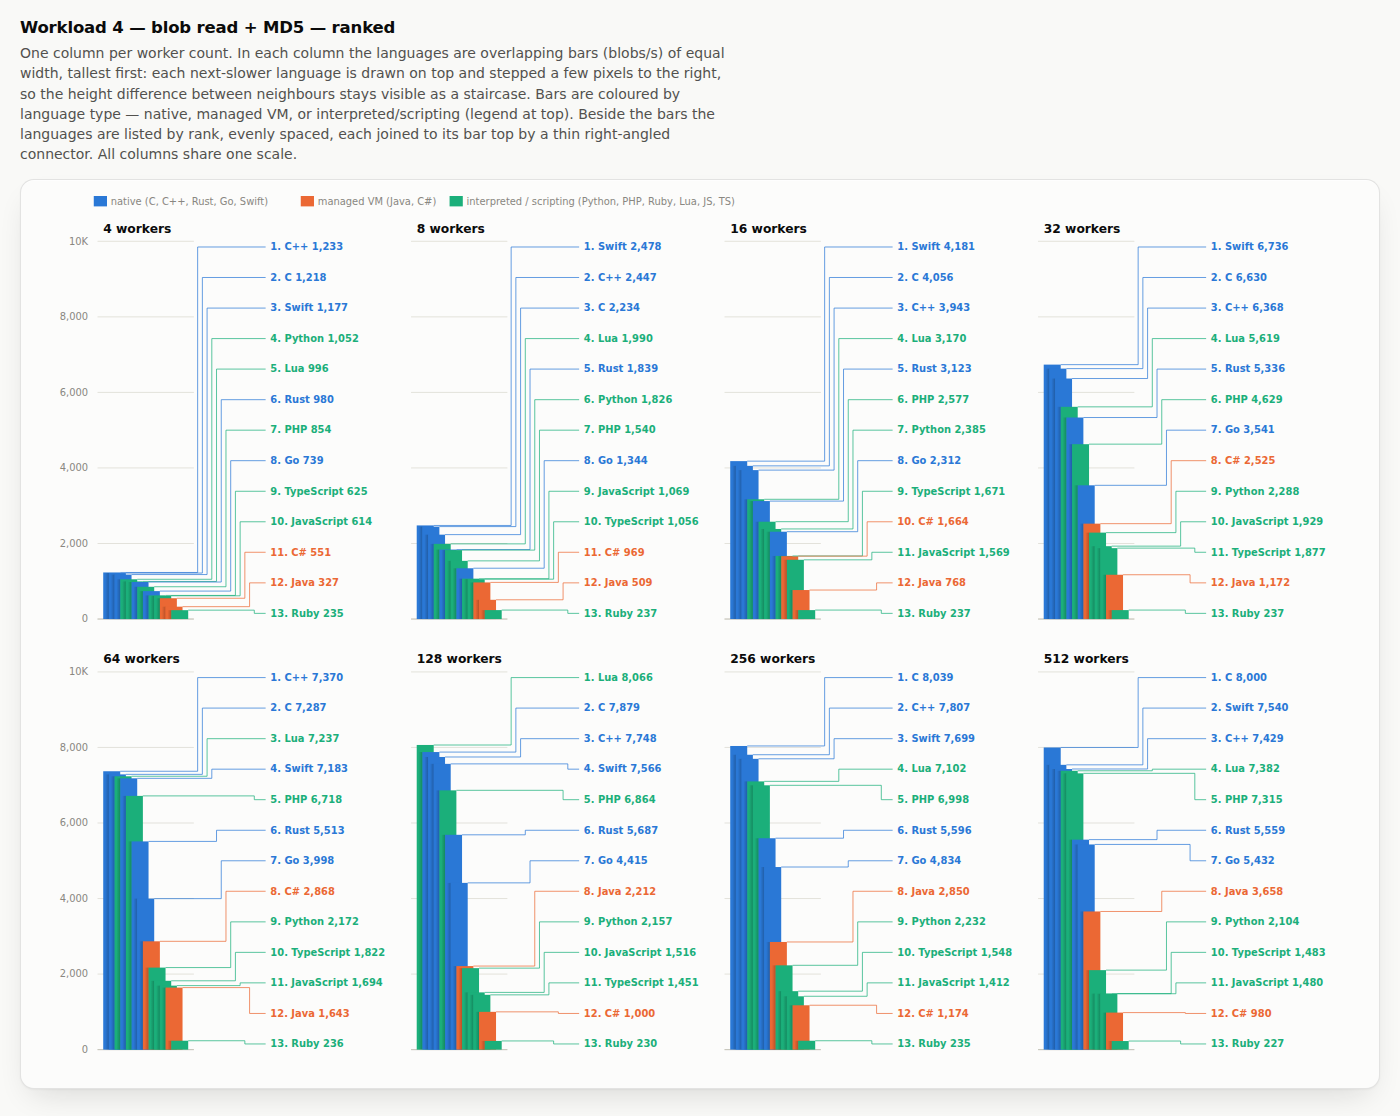
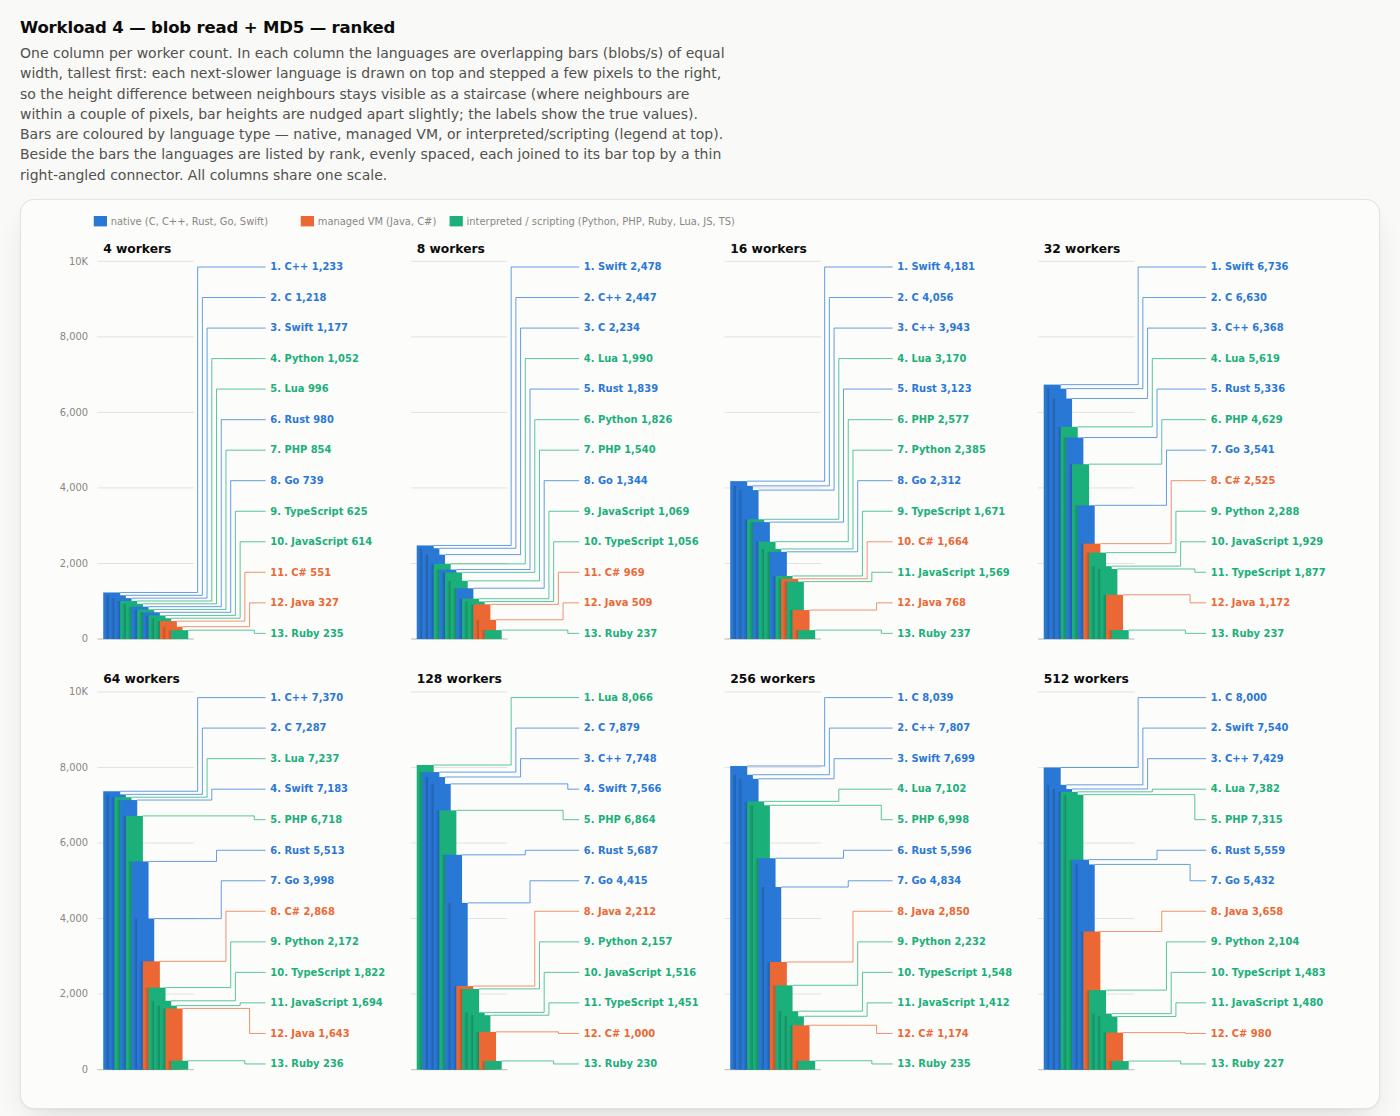
report: keep ranked-chart steps visible when neighbours are nearly equal
In each column, consecutive bar tops closer than 3px are nudged apart (the
shorter bar pushed down, cascading); if the cascade would pass the baseline the
whole stack is lifted by the overflow. Connectors follow the drawn tops; labels
and tooltips keep the true values. Subtitle notes the nudge.

diff --git a/report/ranked.html b/report/ranked.html
@@ -114,22 +114,22 @@
 
   <section id="sec-w1-rank">
     <h2>Workload 1 — integer insert — ranked</h2>
-    <p class="sub">One column per worker count. In each column the languages are overlapping bars (rows/s) of equal width, tallest first: each next-slower language is drawn on top and stepped a few pixels to the right, so the height difference between neighbours stays visible as a staircase. Bars are coloured by language type &mdash; native, managed VM, or interpreted/scripting (legend at top). Beside the bars the languages are listed by rank, evenly spaced, each joined to its bar top by a thin right-angled connector. All columns share one scale.</p>
+    <p class="sub">One column per worker count. In each column the languages are overlapping bars (rows/s) of equal width, tallest first: each next-slower language is drawn on top and stepped a few pixels to the right, so the height difference between neighbours stays visible as a staircase (where neighbours are within a couple of pixels, bar heights are nudged apart slightly; the labels show the true values). Bars are coloured by language type &mdash; native, managed VM, or interpreted/scripting (legend at top). Beside the bars the languages are listed by rank, evenly spaced, each joined to its bar top by a thin right-angled connector. All columns share one scale.</p>
     <div class="bigchart" id="chart-w1-rank"></div>
   </section>
   <section id="sec-w2-rank">
     <h2>Workload 2 — integer fetch + sum — ranked</h2>
-    <p class="sub">One column per worker count. In each column the languages are overlapping bars (rows/s) of equal width, tallest first: each next-slower language is drawn on top and stepped a few pixels to the right, so the height difference between neighbours stays visible as a staircase. Bars are coloured by language type &mdash; native, managed VM, or interpreted/scripting (legend at top). Beside the bars the languages are listed by rank, evenly spaced, each joined to its bar top by a thin right-angled connector. All columns share one scale.</p>
+    <p class="sub">One column per worker count. In each column the languages are overlapping bars (rows/s) of equal width, tallest first: each next-slower language is drawn on top and stepped a few pixels to the right, so the height difference between neighbours stays visible as a staircase (where neighbours are within a couple of pixels, bar heights are nudged apart slightly; the labels show the true values). Bars are coloured by language type &mdash; native, managed VM, or interpreted/scripting (legend at top). Beside the bars the languages are listed by rank, evenly spaced, each joined to its bar top by a thin right-angled connector. All columns share one scale.</p>
     <div class="bigchart" id="chart-w2-rank"></div>
   </section>
   <section id="sec-w3-rank">
     <h2>Workload 3 — blob insert + MD5 — ranked</h2>
-    <p class="sub">One column per worker count. In each column the languages are overlapping bars (blobs/s) of equal width, tallest first: each next-slower language is drawn on top and stepped a few pixels to the right, so the height difference between neighbours stays visible as a staircase. Bars are coloured by language type &mdash; native, managed VM, or interpreted/scripting (legend at top). Beside the bars the languages are listed by rank, evenly spaced, each joined to its bar top by a thin right-angled connector. All columns share one scale.</p>
+    <p class="sub">One column per worker count. In each column the languages are overlapping bars (blobs/s) of equal width, tallest first: each next-slower language is drawn on top and stepped a few pixels to the right, so the height difference between neighbours stays visible as a staircase (where neighbours are within a couple of pixels, bar heights are nudged apart slightly; the labels show the true values). Bars are coloured by language type &mdash; native, managed VM, or interpreted/scripting (legend at top). Beside the bars the languages are listed by rank, evenly spaced, each joined to its bar top by a thin right-angled connector. All columns share one scale.</p>
     <div class="bigchart" id="chart-w3-rank"></div>
   </section>
   <section id="sec-w4-rank">
     <h2>Workload 4 — blob read + MD5 — ranked</h2>
-    <p class="sub">One column per worker count. In each column the languages are overlapping bars (blobs/s) of equal width, tallest first: each next-slower language is drawn on top and stepped a few pixels to the right, so the height difference between neighbours stays visible as a staircase. Bars are coloured by language type &mdash; native, managed VM, or interpreted/scripting (legend at top). Beside the bars the languages are listed by rank, evenly spaced, each joined to its bar top by a thin right-angled connector. All columns share one scale.</p>
+    <p class="sub">One column per worker count. In each column the languages are overlapping bars (blobs/s) of equal width, tallest first: each next-slower language is drawn on top and stepped a few pixels to the right, so the height difference between neighbours stays visible as a staircase (where neighbours are within a couple of pixels, bar heights are nudged apart slightly; the labels show the true values). Bars are coloured by language type &mdash; native, managed VM, or interpreted/scripting (legend at top). Beside the bars the languages are listed by rank, evenly spaced, each joined to its bar top by a thin right-angled connector. All columns share one scale.</p>
     <div class="bigchart" id="chart-w4-rank"></div>
   </section>
   <footer>
@@ -466,9 +466,18 @@ const PAGE_BARS = false;
       // Flat equal-width bars, tallest first; each shorter one drawn on top,
       // shifted OFF px right, so the height differences read as a staircase.
       ranked.forEach(e => { e.col = typeCol(e.it); });
+      // Visual nudge: neighbouring bars whose tops would be closer than MINGAP
+      // px are pushed apart (shorter one down, cascading) so every step stays
+      // visible; if the cascade would run past the baseline the whole stack is
+      // lifted by the overflow. Labels and tooltips keep the true values.
+      const MINGAP = 3;
+      const yts = ranked.map(e => Y(e.v));
+      for (let j = 1; j < yts.length; j++) if (yts[j] - yts[j-1] < MINGAP) yts[j] = yts[j-1] + MINGAP;
+      const over = yts.length ? yts[yts.length-1] - (pb - 1) : 0;
+      if (over > 0) for (let j = 0; j < yts.length; j++) yts[j] -= over;
       const tops = [];
       ranked.forEach((e, j) => {
-        const yt = Y(e.v), h = Math.max(1, pb - yt);
+        const yt = yts[j], h = Math.max(1, pb - yt);
         const w = BARW, bx = bx0 + j * OFF;
         if (j > 0) {   // shadow onto the taller bar to the left, along this bar's height
           svg.appendChild(el("rect", { x: bx - 4, y: yt, width: 4, height: h, fill: `url(#${shId})` }));

diff --git a/report/annotated.html b/report/annotated.html
@@ -470,9 +470,18 @@ const PAGE_BARS = false;
       // Flat equal-width bars, tallest first; each shorter one drawn on top,
       // shifted OFF px right, so the height differences read as a staircase.
       ranked.forEach(e => { e.col = typeCol(e.it); });
+      // Visual nudge: neighbouring bars whose tops would be closer than MINGAP
+      // px are pushed apart (shorter one down, cascading) so every step stays
+      // visible; if the cascade would run past the baseline the whole stack is
+      // lifted by the overflow. Labels and tooltips keep the true values.
+      const MINGAP = 3;
+      const yts = ranked.map(e => Y(e.v));
+      for (let j = 1; j < yts.length; j++) if (yts[j] - yts[j-1] < MINGAP) yts[j] = yts[j-1] + MINGAP;
+      const over = yts.length ? yts[yts.length-1] - (pb - 1) : 0;
+      if (over > 0) for (let j = 0; j < yts.length; j++) yts[j] -= over;
       const tops = [];
       ranked.forEach((e, j) => {
-        const yt = Y(e.v), h = Math.max(1, pb - yt);
+        const yt = yts[j], h = Math.max(1, pb - yt);
         const w = BARW, bx = bx0 + j * OFF;
         if (j > 0) {   // shadow onto the taller bar to the left, along this bar's height
           svg.appendChild(el("rect", { x: bx - 4, y: yt, width: 4, height: h, fill: `url(#${shId})` }));

diff --git a/report/report.html b/report/report.html
@@ -550,9 +550,18 @@ const PAGE_BARS = false;
       // Flat equal-width bars, tallest first; each shorter one drawn on top,
       // shifted OFF px right, so the height differences read as a staircase.
       ranked.forEach(e => { e.col = typeCol(e.it); });
+      // Visual nudge: neighbouring bars whose tops would be closer than MINGAP
+      // px are pushed apart (shorter one down, cascading) so every step stays
+      // visible; if the cascade would run past the baseline the whole stack is
+      // lifted by the overflow. Labels and tooltips keep the true values.
+      const MINGAP = 3;
+      const yts = ranked.map(e => Y(e.v));
+      for (let j = 1; j < yts.length; j++) if (yts[j] - yts[j-1] < MINGAP) yts[j] = yts[j-1] + MINGAP;
+      const over = yts.length ? yts[yts.length-1] - (pb - 1) : 0;
+      if (over > 0) for (let j = 0; j < yts.length; j++) yts[j] -= over;
       const tops = [];
       ranked.forEach((e, j) => {
-        const yt = Y(e.v), h = Math.max(1, pb - yt);
+        const yt = yts[j], h = Math.max(1, pb - yt);
         const w = BARW, bx = bx0 + j * OFF;
         if (j > 0) {   // shadow onto the taller bar to the left, along this bar's height
           svg.appendChild(el("rect", { x: bx - 4, y: yt, width: 4, height: h, fill: `url(#${shId})` }));

diff --git a/report/bars.html b/report/bars.html
@@ -470,9 +470,18 @@ const PAGE_BARS = true;
       // Flat equal-width bars, tallest first; each shorter one drawn on top,
       // shifted OFF px right, so the height differences read as a staircase.
       ranked.forEach(e => { e.col = typeCol(e.it); });
+      // Visual nudge: neighbouring bars whose tops would be closer than MINGAP
+      // px are pushed apart (shorter one down, cascading) so every step stays
+      // visible; if the cascade would run past the baseline the whole stack is
+      // lifted by the overflow. Labels and tooltips keep the true values.
+      const MINGAP = 3;
+      const yts = ranked.map(e => Y(e.v));
+      for (let j = 1; j < yts.length; j++) if (yts[j] - yts[j-1] < MINGAP) yts[j] = yts[j-1] + MINGAP;
+      const over = yts.length ? yts[yts.length-1] - (pb - 1) : 0;
+      if (over > 0) for (let j = 0; j < yts.length; j++) yts[j] -= over;
       const tops = [];
       ranked.forEach((e, j) => {
-        const yt = Y(e.v), h = Math.max(1, pb - yt);
+        const yt = yts[j], h = Math.max(1, pb - yt);
         const w = BARW, bx = bx0 + j * OFF;
         if (j > 0) {   // shadow onto the taller bar to the left, along this bar's height
           svg.appendChild(el("rect", { x: bx - 4, y: yt, width: 4, height: h, fill: `url(#${shId})` }));

diff --git a/report/generate_html_report.py b/report/generate_html_report.py
@@ -328,7 +328,7 @@ def main():
         rank_sections += f"""
   <section id="sec-{sid}-rank">
     <h2>{m['title']} — ranked</h2>
-    <p class="sub">One column per worker count. In each column the languages are overlapping bars ({m['unit']}) of equal width, tallest first: each next-slower language is drawn on top and stepped a few pixels to the right, so the height difference between neighbours stays visible as a staircase. Bars are coloured by language type &mdash; native, managed VM, or interpreted/scripting (legend at top). Beside the bars the languages are listed by rank, evenly spaced, each joined to its bar top by a thin right-angled connector. All columns share one scale.</p>
+    <p class="sub">One column per worker count. In each column the languages are overlapping bars ({m['unit']}) of equal width, tallest first: each next-slower language is drawn on top and stepped a few pixels to the right, so the height difference between neighbours stays visible as a staircase (where neighbours are within a couple of pixels, bar heights are nudged apart slightly; the labels show the true values). Bars are coloured by language type &mdash; native, managed VM, or interpreted/scripting (legend at top). Beside the bars the languages are listed by rank, evenly spaced, each joined to its bar top by a thin right-angled connector. All columns share one scale.</p>
     <div class="bigchart" id="chart-{sid}-rank"></div>
   </section>"""
         png_ann.append(f"{sid}-ann")
@@ -919,9 +919,18 @@ const PAGE_BARS = __PAGE_BARS__;
       // Flat equal-width bars, tallest first; each shorter one drawn on top,
       // shifted OFF px right, so the height differences read as a staircase.
       ranked.forEach(e => { e.col = typeCol(e.it); });
+      // Visual nudge: neighbouring bars whose tops would be closer than MINGAP
+      // px are pushed apart (shorter one down, cascading) so every step stays
+      // visible; if the cascade would run past the baseline the whole stack is
+      // lifted by the overflow. Labels and tooltips keep the true values.
+      const MINGAP = 3;
+      const yts = ranked.map(e => Y(e.v));
+      for (let j = 1; j < yts.length; j++) if (yts[j] - yts[j-1] < MINGAP) yts[j] = yts[j-1] + MINGAP;
+      const over = yts.length ? yts[yts.length-1] - (pb - 1) : 0;
+      if (over > 0) for (let j = 0; j < yts.length; j++) yts[j] -= over;
       const tops = [];
       ranked.forEach((e, j) => {
-        const yt = Y(e.v), h = Math.max(1, pb - yt);
+        const yt = yts[j], h = Math.max(1, pb - yt);
         const w = BARW, bx = bx0 + j * OFF;
         if (j > 0) {   // shadow onto the taller bar to the left, along this bar's height
           svg.appendChild(el("rect", { x: bx - 4, y: yt, width: 4, height: h, fill: `url(#${shId})` }));
